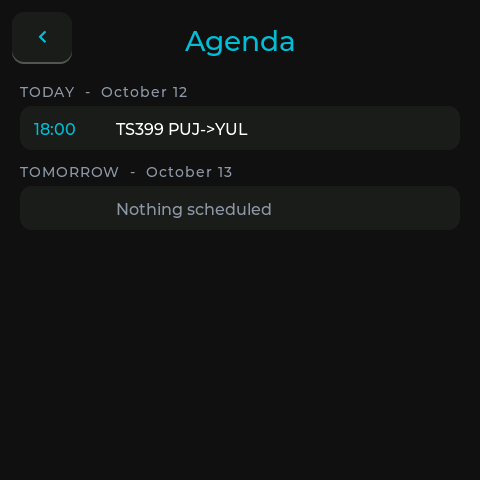
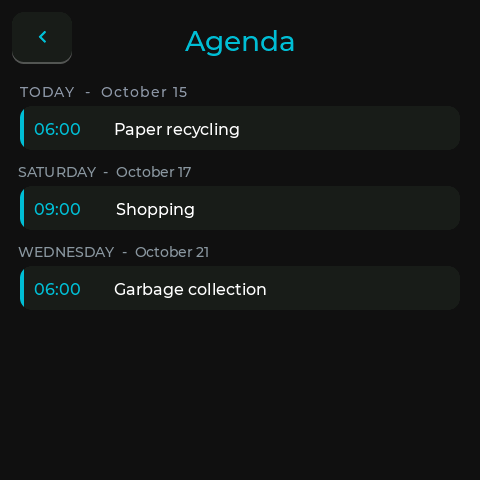
Agenda headers all in one style; calendar screenshots (v3.38)
- Agenda: later days as "SATURDAY  -  October 17", like TODAY / TOMORROW
- README: new Calendar, Agenda and Calendar day view screenshots (event
  titles replaced); dashboard.gif rebuilt

diff --git a/README.md b/README.md
@@ -44,7 +44,7 @@ All taken on the device with the built-in [screenshot](#screenshots) feature.
 | <img src="images/screenshots/proxmox.png" width="220" alt="Proxmox"><br>Proxmox | <img src="images/screenshots/stocks.png" width="220" alt="Stocks"><br>Stocks | <img src="images/screenshots/makerworld.png" width="220" alt="MakerWorld"><br>MakerWorld |
 | <img src="images/screenshots/packages.png" width="220" alt="Packages"><br>Packages | <img src="images/screenshots/flight.png" width="220" alt="Flight"><br>Flight | <img src="images/screenshots/home-assistant.png" width="220" alt="Home Assistant"><br>Home Assistant |
 | <img src="images/screenshots/quick-panel.png" width="220" alt="Quick panel"><br>Quick panel | <img src="images/screenshots/night-clock.png" width="220" alt="Night clock"><br>Night clock | <img src="images/screenshots/settings.png" width="220" alt="Settings"><br>Settings |
-| <img src="images/screenshots/home-printing.png" width="220" alt="Home with a print running"><br>Home, printing | <img src="images/screenshots/phone.png" width="220" alt="Phone (Asterisk)"><br>Phone (Asterisk) | |
+| <img src="images/screenshots/home-printing.png" width="220" alt="Home with a print running"><br>Home, printing | <img src="images/screenshots/phone.png" width="220" alt="Phone (Asterisk)"><br>Phone (Asterisk) | <img src="images/screenshots/calendar-day.png" width="220" alt="Calendar day view"><br>Calendar, day view |
 
 ## Hardware Requirements
 
